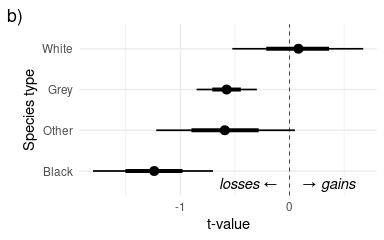
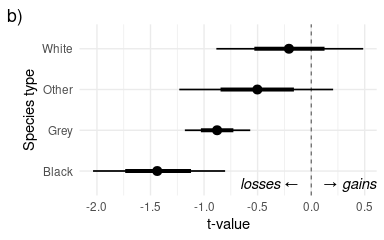
Update report figures

diff --git a/notebooks/report.md b/notebooks/report.md
@@ -139,15 +139,15 @@ factors that explain the differences?
     communities in these months appears to be quite distinct. When using
     abundance data, the mean community dissimilarity (measured as
     percentage difference), which ranges between 0 (for two identical
-    communities) and 1 (for completely different communities), was 0.64
-    (0.4-0.98; 95% credible intervals).
+    communities) and 1 (for completely different communities), was 1.06
+    (0.78-1.41; 95% credible intervals).
   - These dissimilarities were primarily driven by losses rather than
-    gains (*p* = 0.03). In fact, losses account for 72% (48%-84%) of the
+    gains (*p* = 0.05). In fact, losses account for 67% (46%-82%) of the
     total dissimilarity.
   - We found that the dissimilarities are larger when using abundance
-    data were higher than when using occurrence data (*p* = \<1e-04).
+    data were higher than when using occurrence data (*p* = 0.21).
     Nevertheless, the dissimilarity when using occurrence data was still
-    substantial at 0.51 (0.31, 0.85). This indicates, that changes are
+    substantial at 0.96 (0.68, 1.32). This indicates, that changes are
     not only driven by a reduction in species abundances, but also by a
     reduction in the species present in May compared to February.
   - We found that only a handful species show consistent changes between
@@ -157,7 +157,7 @@ factors that explain the differences?
   - However there were differences between species types. Black species
     were more likely to be lost than grey and white species.
 
-![](report_files/figure-gfm/tbi-plot-1.png)<!-- -->![](report_files/figure-gfm/tbi-plot-2.png)<!-- -->
+![](report_files/figure-gfm/tbi-plot-1.png)<!-- -->
 
 *Figure 3: Changes in community composition in February, at the start of
 the dry season, and May, towards the end of the dry season. (a) Changes
